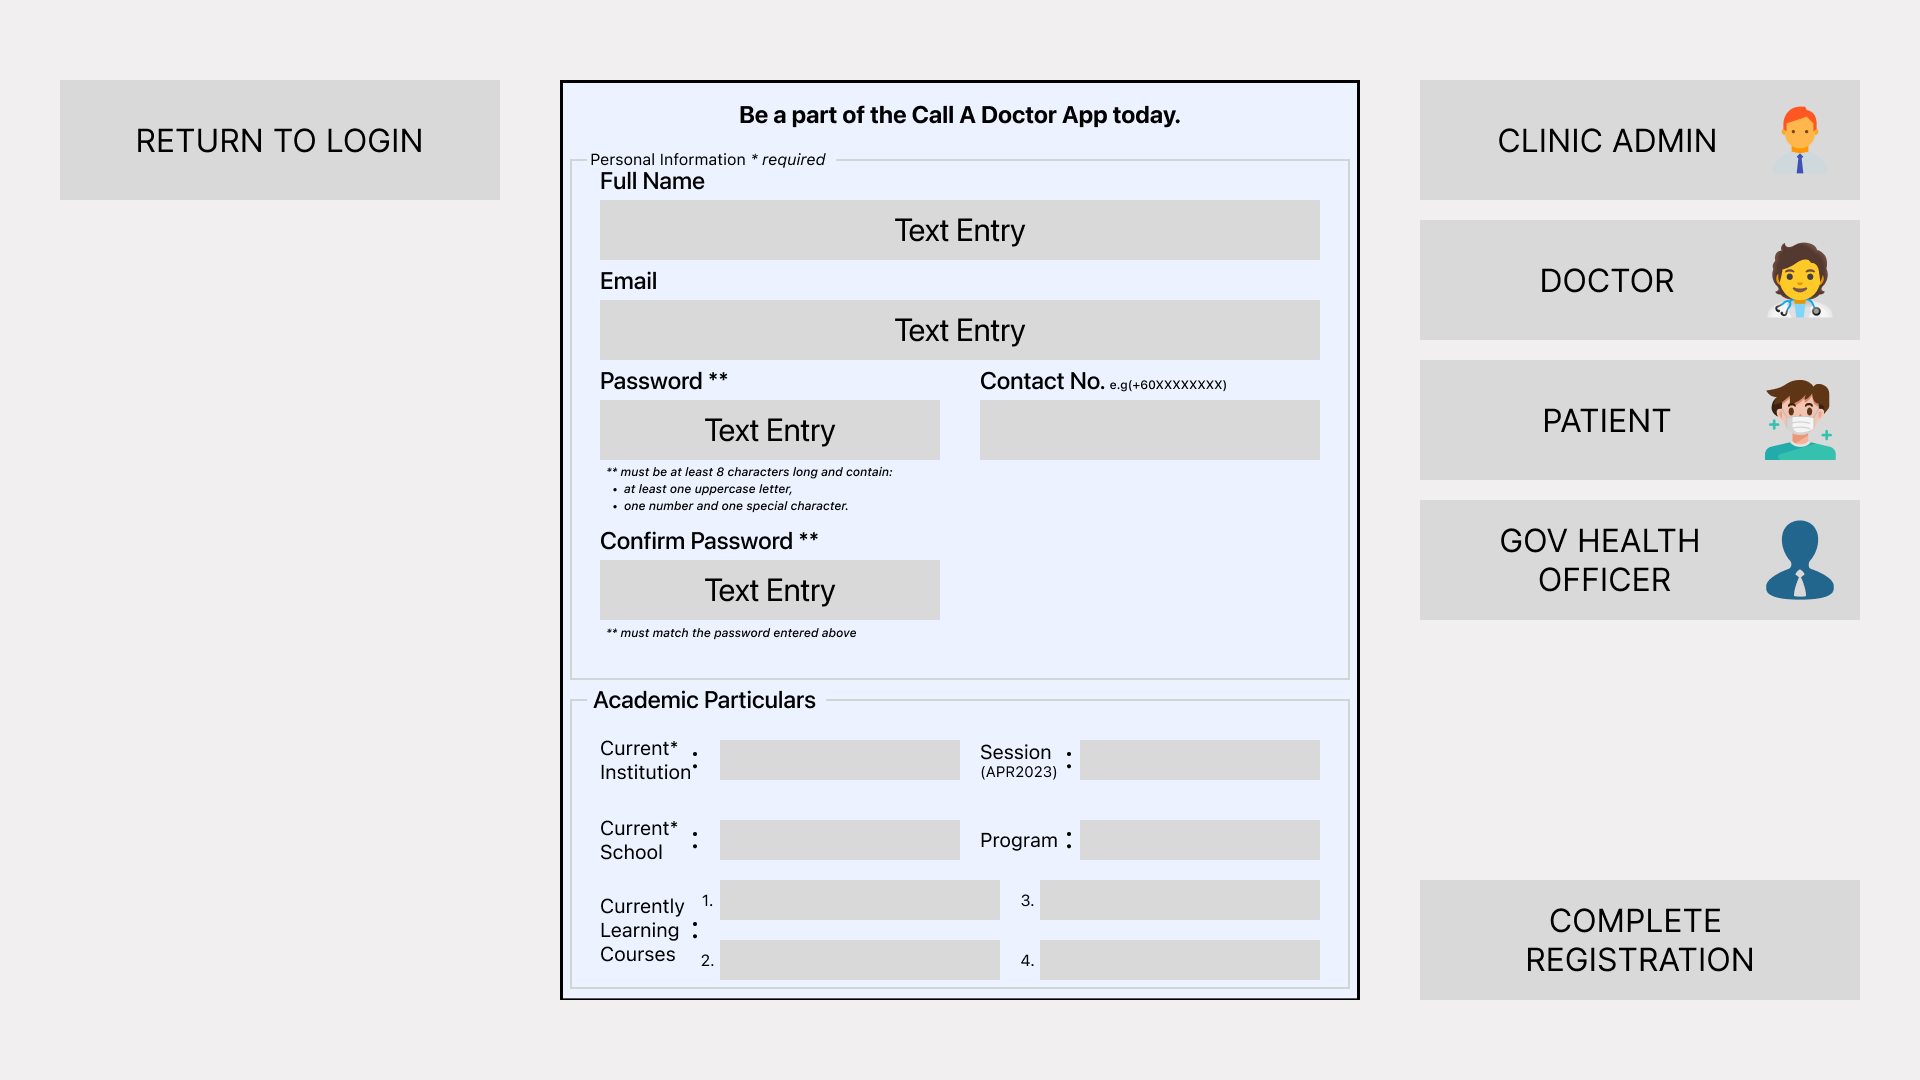
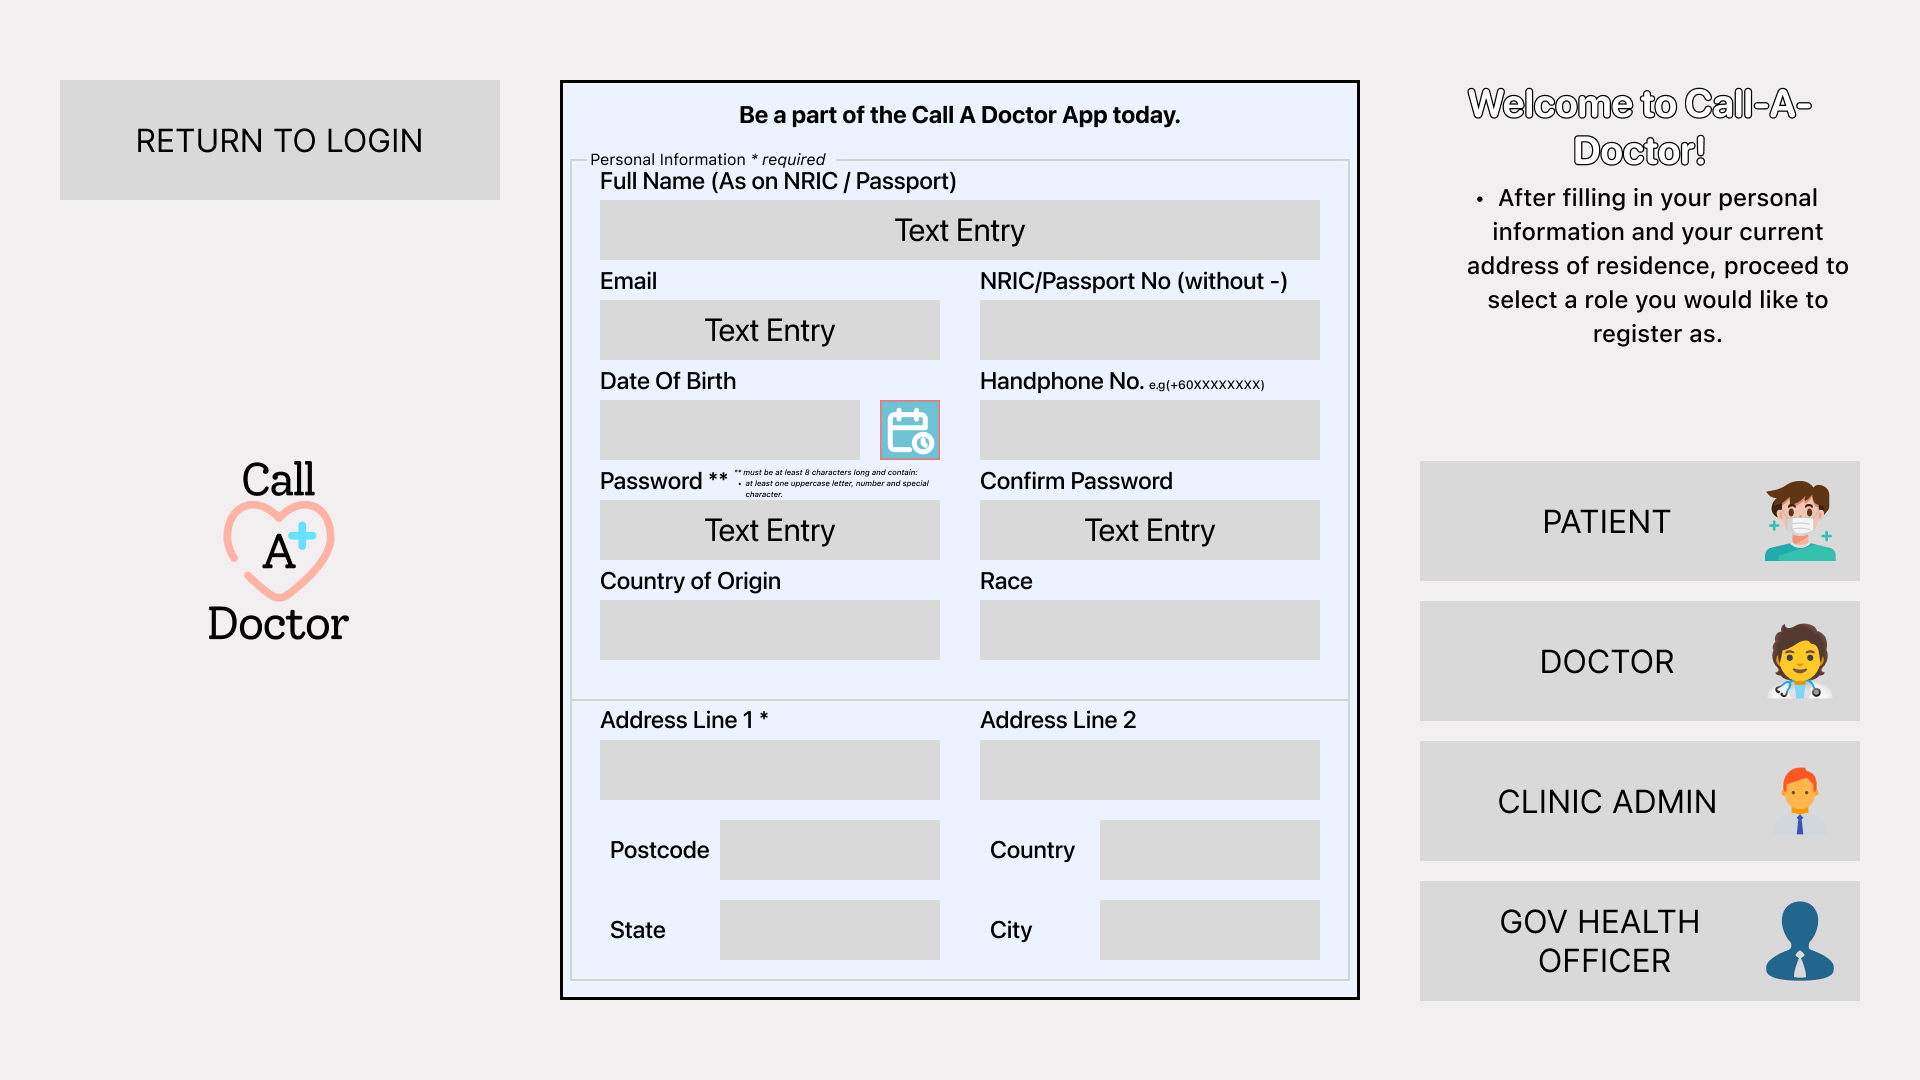
preparing registration form interface

diff --git a/views/registration.py b/views/registration.py
@@ -15,6 +15,11 @@ from datetime import datetime as dt
 # from captcha.image import ImageCaptcha
 # from components.animatedgif import AnimatedGif
 import bcrypt
+from views.registrationForms.adminForm import AdminRegistrationForm
+from views.registrationForms.doctorForm import DoctorRegistrationForm
+from views.registrationForms.officerForm import OfficerRegistrationForm
+
+from views.registrationForms.patientForm import PatientRegistrationForm
 
 
 class RegistrationPage(Frame):
@@ -105,6 +110,26 @@ class RegistrationPage(Frame):
                 variable=v["variable"], font=("Helvetica", 12),
                 command=lambda: [self.loadStateMenubuttons(self.country.get())]
             )
+        self.patientFormBtn = self.controller.buttonCreator(
+            ipath="assets/Registration/PatientFormButton.png",
+            x=1420, y=460, classname="patientformbtn", root=self,
+            buttonFunction=lambda: self.loadRoleAssets(patient=True)
+        )
+        self.doctorFormBtn = self.controller.buttonCreator(
+            ipath="assets/Registration/DoctorFormButton.png",
+            x=1420, y=600, classname="doctorformbtn", root=self,
+            buttonFunction=lambda: self.loadRoleAssets(doctor=True)
+        )
+        self.adminFormBtn = self.controller.buttonCreator(
+            ipath="assets/Registration/AdminFormButton.png",
+            x=1420, y=740, classname="adminformbtn", root=self,
+            buttonFunction=lambda: self.loadRoleAssets(admin=True)
+        )
+        self.officerFormBtn = self.controller.buttonCreator(
+            ipath="assets/Registration/OfficerFormButton.png",
+            x=1420, y=880, classname="officerformbtn", root=self,
+            buttonFunction=lambda: self.loadRoleAssets(officer=True)
+        )
 
     def selectDate(self, btn):
         self.dateOfBirthEntry.configure(foreground="black")
@@ -848,3 +873,19 @@ class RegistrationPage(Frame):
 
     def loadSignIn(self):
         self.grid_remove()
+
+    def loadRoleAssets(self, patient: bool = False, doctor: bool = False, clinicAdmin: bool = False, govofficer: bool = False):
+        if patient:
+            self.primaryForm = PatientRegistrationForm(
+                parent=self, controller=self.controller)
+        elif doctor:
+            self.primaryForm = DoctorRegistrationForm(
+                parent=self, controller=self.controller)
+        elif clinicAdmin:
+            self.primaryForm = AdminRegistrationForm(
+                parent=self, controller=self.controller)
+        elif govofficer:
+            self.primaryForm = OfficerRegistrationForm(
+                parent=self, controller=self.controller)
+        else:
+            return

diff --git a/views/registrationForms/officerForm.py b/views/registrationForms/officerForm.py
@@ -1,0 +1,41 @@
+from abc import ABC, abstractmethod
+import calendar
+import re
+import threading
+from tkinter import *
+from tkinter import messagebox
+from prisma.models import Appointment
+from ttkbootstrap.constants import *
+from ttkbootstrap.toast import ToastNotification
+from ttkbootstrap.scrolled import ScrolledFrame, ScrolledText
+from ttkbootstrap.dialogs import Messagebox, MessageDialog, Querybox
+from ttkbootstrap.dialogs.dialogs import DatePickerDialog
+from resource.basewindow import gridGenerator
+from resource.static import *
+from resource.basewindow import ElementCreator
+from datetime import datetime, timedelta
+import datetime as dt
+from pendulum import timezone
+import tkintermapview
+
+
+class OfficerRegistrationForm(Frame):
+    def __init__(self, parent=None, controller: ElementCreator = None):
+        super().__init__(parent, width=1, height=1, bg="#dee8e0", name="secondarypanel")
+        self.controller = controller
+        self.parent = parent
+        gridGenerator(self, 84, 54, "#dee8e0")
+        self.grid(row=0, column=12, columnspan=84, rowspan=54, sticky=NSEW)
+        
+        self.prisma = self.controller.mainPrisma
+        self.createFrames()
+        self.createElements()
+
+    def createFrames(self):
+        pass
+
+    def createElements(self):
+        self.controller.labelCreator(
+            ipath=r"assets\Dashboard\PatientAssets\PatientPrimaryPanelBG.png",
+            x=0, y=0, classname="secondarypanelbg", root=self
+        )

diff --git a/views/registrationForms/patientForm.py b/views/registrationForms/patientForm.py
@@ -1,0 +1,41 @@
+from abc import ABC, abstractmethod
+import calendar
+import re
+import threading
+from tkinter import *
+from tkinter import messagebox
+from prisma.models import Appointment
+from ttkbootstrap.constants import *
+from ttkbootstrap.toast import ToastNotification
+from ttkbootstrap.scrolled import ScrolledFrame, ScrolledText
+from ttkbootstrap.dialogs import Messagebox, MessageDialog, Querybox
+from ttkbootstrap.dialogs.dialogs import DatePickerDialog
+from resource.basewindow import gridGenerator
+from resource.static import *
+from resource.basewindow import ElementCreator
+from datetime import datetime, timedelta
+import datetime as dt
+from pendulum import timezone
+import tkintermapview
+
+
+class PatientRegistrationForm(Frame):
+    def __init__(self, parent=None, controller: ElementCreator = None):
+        super().__init__(parent, width=1, height=1, bg="#dee8e0", name="secondarypanel")
+        self.controller = controller
+        self.parent = parent
+        gridGenerator(self, 84, 54, "#dee8e0")
+        self.grid(row=0, column=12, columnspan=84, rowspan=54, sticky=NSEW)
+        
+        self.prisma = self.controller.mainPrisma
+        self.createFrames()
+        self.createElements()
+
+    def createFrames(self):
+        pass
+
+    def createElements(self):
+        self.controller.labelCreator(
+            ipath=r"assets/Dashboard/OfficerAssets/OfficerPrimaryPanelBG.png",
+            x=0, y=0, classname="secondarypanelbg", root=self
+        )

diff --git a/views/registrationForms/adminForm.py b/views/registrationForms/adminForm.py
@@ -1,0 +1,41 @@
+from abc import ABC, abstractmethod
+import calendar
+import re
+import threading
+from tkinter import *
+from tkinter import messagebox
+from prisma.models import Appointment
+from ttkbootstrap.constants import *
+from ttkbootstrap.toast import ToastNotification
+from ttkbootstrap.scrolled import ScrolledFrame, ScrolledText
+from ttkbootstrap.dialogs import Messagebox, MessageDialog, Querybox
+from ttkbootstrap.dialogs.dialogs import DatePickerDialog
+from resource.basewindow import gridGenerator
+from resource.static import *
+from resource.basewindow import ElementCreator
+from datetime import datetime, timedelta
+import datetime as dt
+from pendulum import timezone
+import tkintermapview
+
+
+class AdminRegistrationForm(Frame):
+    def __init__(self, parent=None, controller: ElementCreator = None):
+        super().__init__(parent, width=1, height=1, bg="#dee8e0", name="secondarypanel")
+        self.controller = controller
+        self.parent = parent
+        gridGenerator(self, 84, 54, "#dee8e0")
+        self.grid(row=0, column=12, columnspan=84, rowspan=54, sticky=NSEW)
+        
+        self.prisma = self.controller.mainPrisma
+        self.createFrames()
+        self.createElements()
+
+    def createFrames(self):
+        pass
+
+    def createElements(self):
+        self.controller.labelCreator(
+            ipath=r"assets\Dashboard\PatientAssets\PatientPrimaryPanelBG.png",
+            x=0, y=0, classname="secondarypanelbg", root=self
+        )

diff --git a/views/registrationForms/doctorForm.py b/views/registrationForms/doctorForm.py
@@ -1,0 +1,40 @@
+from abc import ABC, abstractmethod
+import calendar
+import re
+import threading
+from tkinter import *
+from tkinter import messagebox
+from prisma.models import Appointment
+from ttkbootstrap.constants import *
+from ttkbootstrap.toast import ToastNotification
+from ttkbootstrap.scrolled import ScrolledFrame, ScrolledText
+from ttkbootstrap.dialogs import Messagebox, MessageDialog, Querybox
+from ttkbootstrap.dialogs.dialogs import DatePickerDialog
+from resource.basewindow import gridGenerator
+from resource.static import *
+from resource.basewindow import ElementCreator
+from datetime import datetime, timedelta
+import datetime as dt
+from pendulum import timezone
+import tkintermapview
+
+
+class DoctorRegistrationForm(Frame):
+    def __init__(self, parent=None, controller: ElementCreator = None):
+        super().__init__(parent, width=1, height=1, bg="#dee8e0", name="secondarypanel")
+        self.controller = controller
+        self.parent = parent
+        gridGenerator(self, 84, 54, "#dee8e0")
+        self.grid(row=0, column=12, columnspan=84, rowspan=54, sticky=NSEW)
+        self.prisma = self.controller.mainPrisma
+        self.createFrames()
+        self.createElements()
+
+    def createFrames(self):
+        pass
+
+    def createElements(self):
+        self.controller.labelCreator(
+            ipath=r"assets\Dashboard\PatientAssets\PatientPrimaryPanelBG.png",
+            x=0, y=0, classname="secondarypanelbg", root=self
+        )

diff --git a/resource/basewindow.py b/resource/basewindow.py
@@ -339,13 +339,12 @@ class ElementCreator(ttk.Window):
             bordercolor="#78c2ad",
             relief="raised",
         )
-        print(themename)
         if themename == "registrationformframe.TMenubutton":
             menustyle.configure(style=themename, background=WHITE,
                                 foreground=BLACK, bordercolor="#78c2ad",
                                 font=("Helvetica", 12))
             menustyle.map(themename, foreground=[('active', BLACK), ("disabled", BLACK)],
-                          background=[('active', "#ffe3bd"), ("disabled", "#ffe3bd")])
+                          background=[('active', WHITE), ("disabled", WHITE)])
 
         if themename == "apptcreateframe.TMenubutton":
             menustyle.configure(style=themename, background=LIGHTPURPLE,
